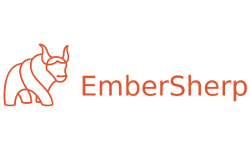
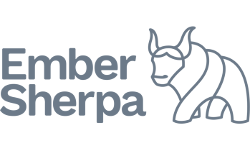
changed logo2

Changed region(s): [[0.0, 0.16, 1.0, 0.8267]]

diff --git a/_includes/partners-list.html b/_includes/partners-list.html
@@ -1,20 +1,20 @@
 <div style="text-align:center" class='each-partner'>
   <div class="partner-post">
-    <img src="../img/cure-logo.png" alt="Cure International logo" class="partner-logo">
+    <img src="../img/CURE-Logo.png" alt="Cure International logo" class="partner-logo">
   </div>
   <h3 class="partner-name">Cure International</h3>
 </div>
 <div style="text-align:center" class='each-partner'>
   <div class="partner-post">
-    <img src="../img/eHealth.png" alt="eHealthAfrica logo" class="partner-logo" >
+    <img src="../img/ehealth.jpg" alt="eHealthAfrica logo" class="partner-logo" >
   </div>
   <h3 class="partner-name">eHealthAfrica</h3>
 </div>
-<div style="text-align:center" class='each-partner'>
+<div style="text-align:center" class='each-partner center'>
   <div class="partner-post">
-    <img src="../img/msbp.png" alt="Microsoft's Bizspark logo" class="partner-logo" >
+    <img src="../img/ember.png" alt="Ember Sherpa logo" class="partner-logo" >
   </div>
-  <h3 class="partner-name">Microsoft's Bizspark</h3>
+  <h3 class="partner-name">Ember Sherpa</h3>
 </div>
 <div style="text-align:center" class='each-partner center'>
   <div class="partner-post">
@@ -22,9 +22,9 @@
   </div>
   <h3 class="partner-name">New Relic</h3>
 </div>
-<div style="text-align:center" class='each-partner center'>
+<div style="text-align:center" class='each-partner'>
   <div class="partner-post">
-    <img src="../img/ember.svg" alt="Ember Sherpa logo" class="partner-logo" >
+    <img src="../img/microsoft.jpg" alt="Microsoft's Bizspark logo" class="partner-logo" >
   </div>
-  <h3 class="partner-name">Ember Sherpa</h3>
+  <h3 class="partner-name">Microsoft's Bizspark</h3>
 </div>

diff --git a/_sass/_partners.scss b/_sass/_partners.scss
@@ -1,11 +1,10 @@
 @media screen and (min-width: 280px) {
     .each-partner {
-        width: 100%;
+        max_width: 100%;
         background-color: #ffffff;
     }
     .partner-logo{
-      width: 200px;
-      height: 100px;
+      max-width: 100%;
       padding: 1%;
     }
     .partner-post{
@@ -28,9 +27,6 @@
         background-color: #ffffff;
         border-radius: 10px;
     }
-    .partner-logo{
-      width:155px;
-    }
 }
 @media screen and (min-width: 730px) {
   section.partners {
@@ -41,18 +37,12 @@
         background-color: #ffffff;
         border-radius: 10px;
     }
-    .partner-logo{
-      width:275px;
-    }
 }
 @media screen and (min-width: 980px) {
     .each-partner {
         width: 28%;
         background-color: #ffffff;
         border-radius: 10px;
-    }
-    .partner-logo{
-      width:250px;
     }
 }
 @media screen and (min-width: 1310px) {
@@ -63,9 +53,6 @@
         width: 28%;
         background-color: #ffffff;
         border-radius: 10px;
-    }
-    .partner-logo{
-      width:250px;
     }
 }
 @media screen and (min-width: 1610px) {
@@ -79,9 +66,6 @@
         width: 28%;
         background-color: #ffffff;
         border-radius: 10px;
-    }
-    .partner-logo{
-      width:400px;
     }
 }
 
